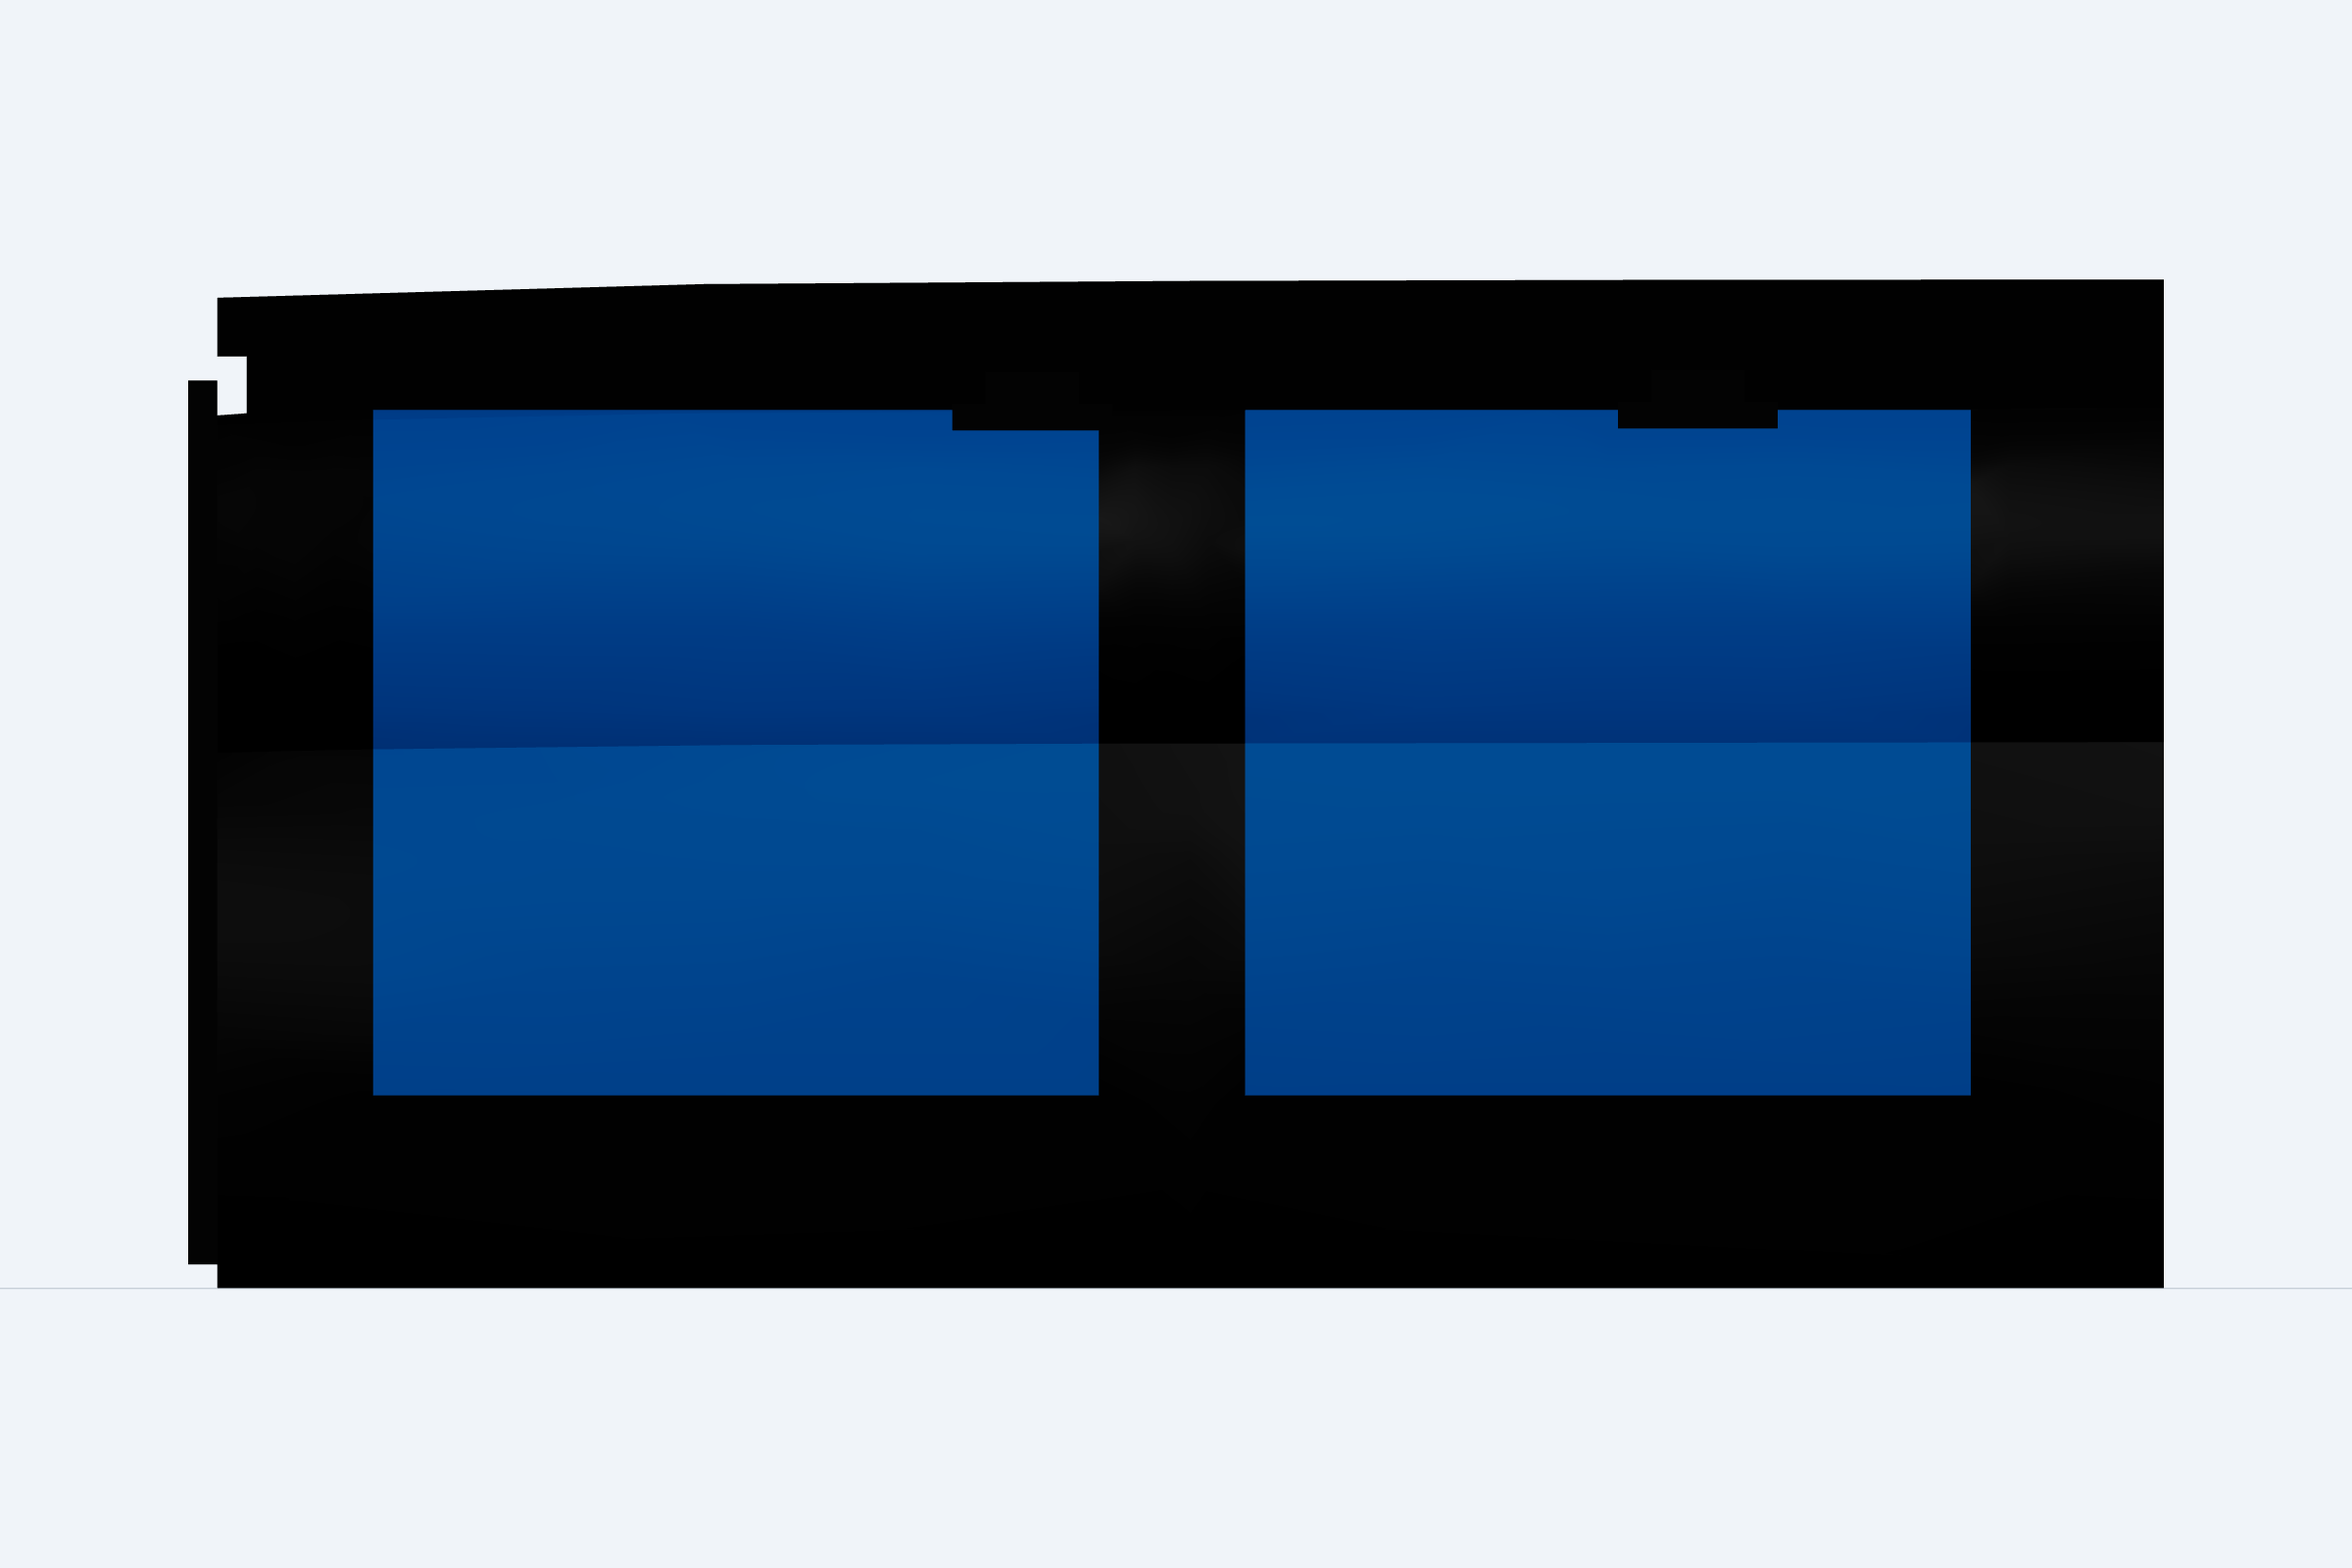
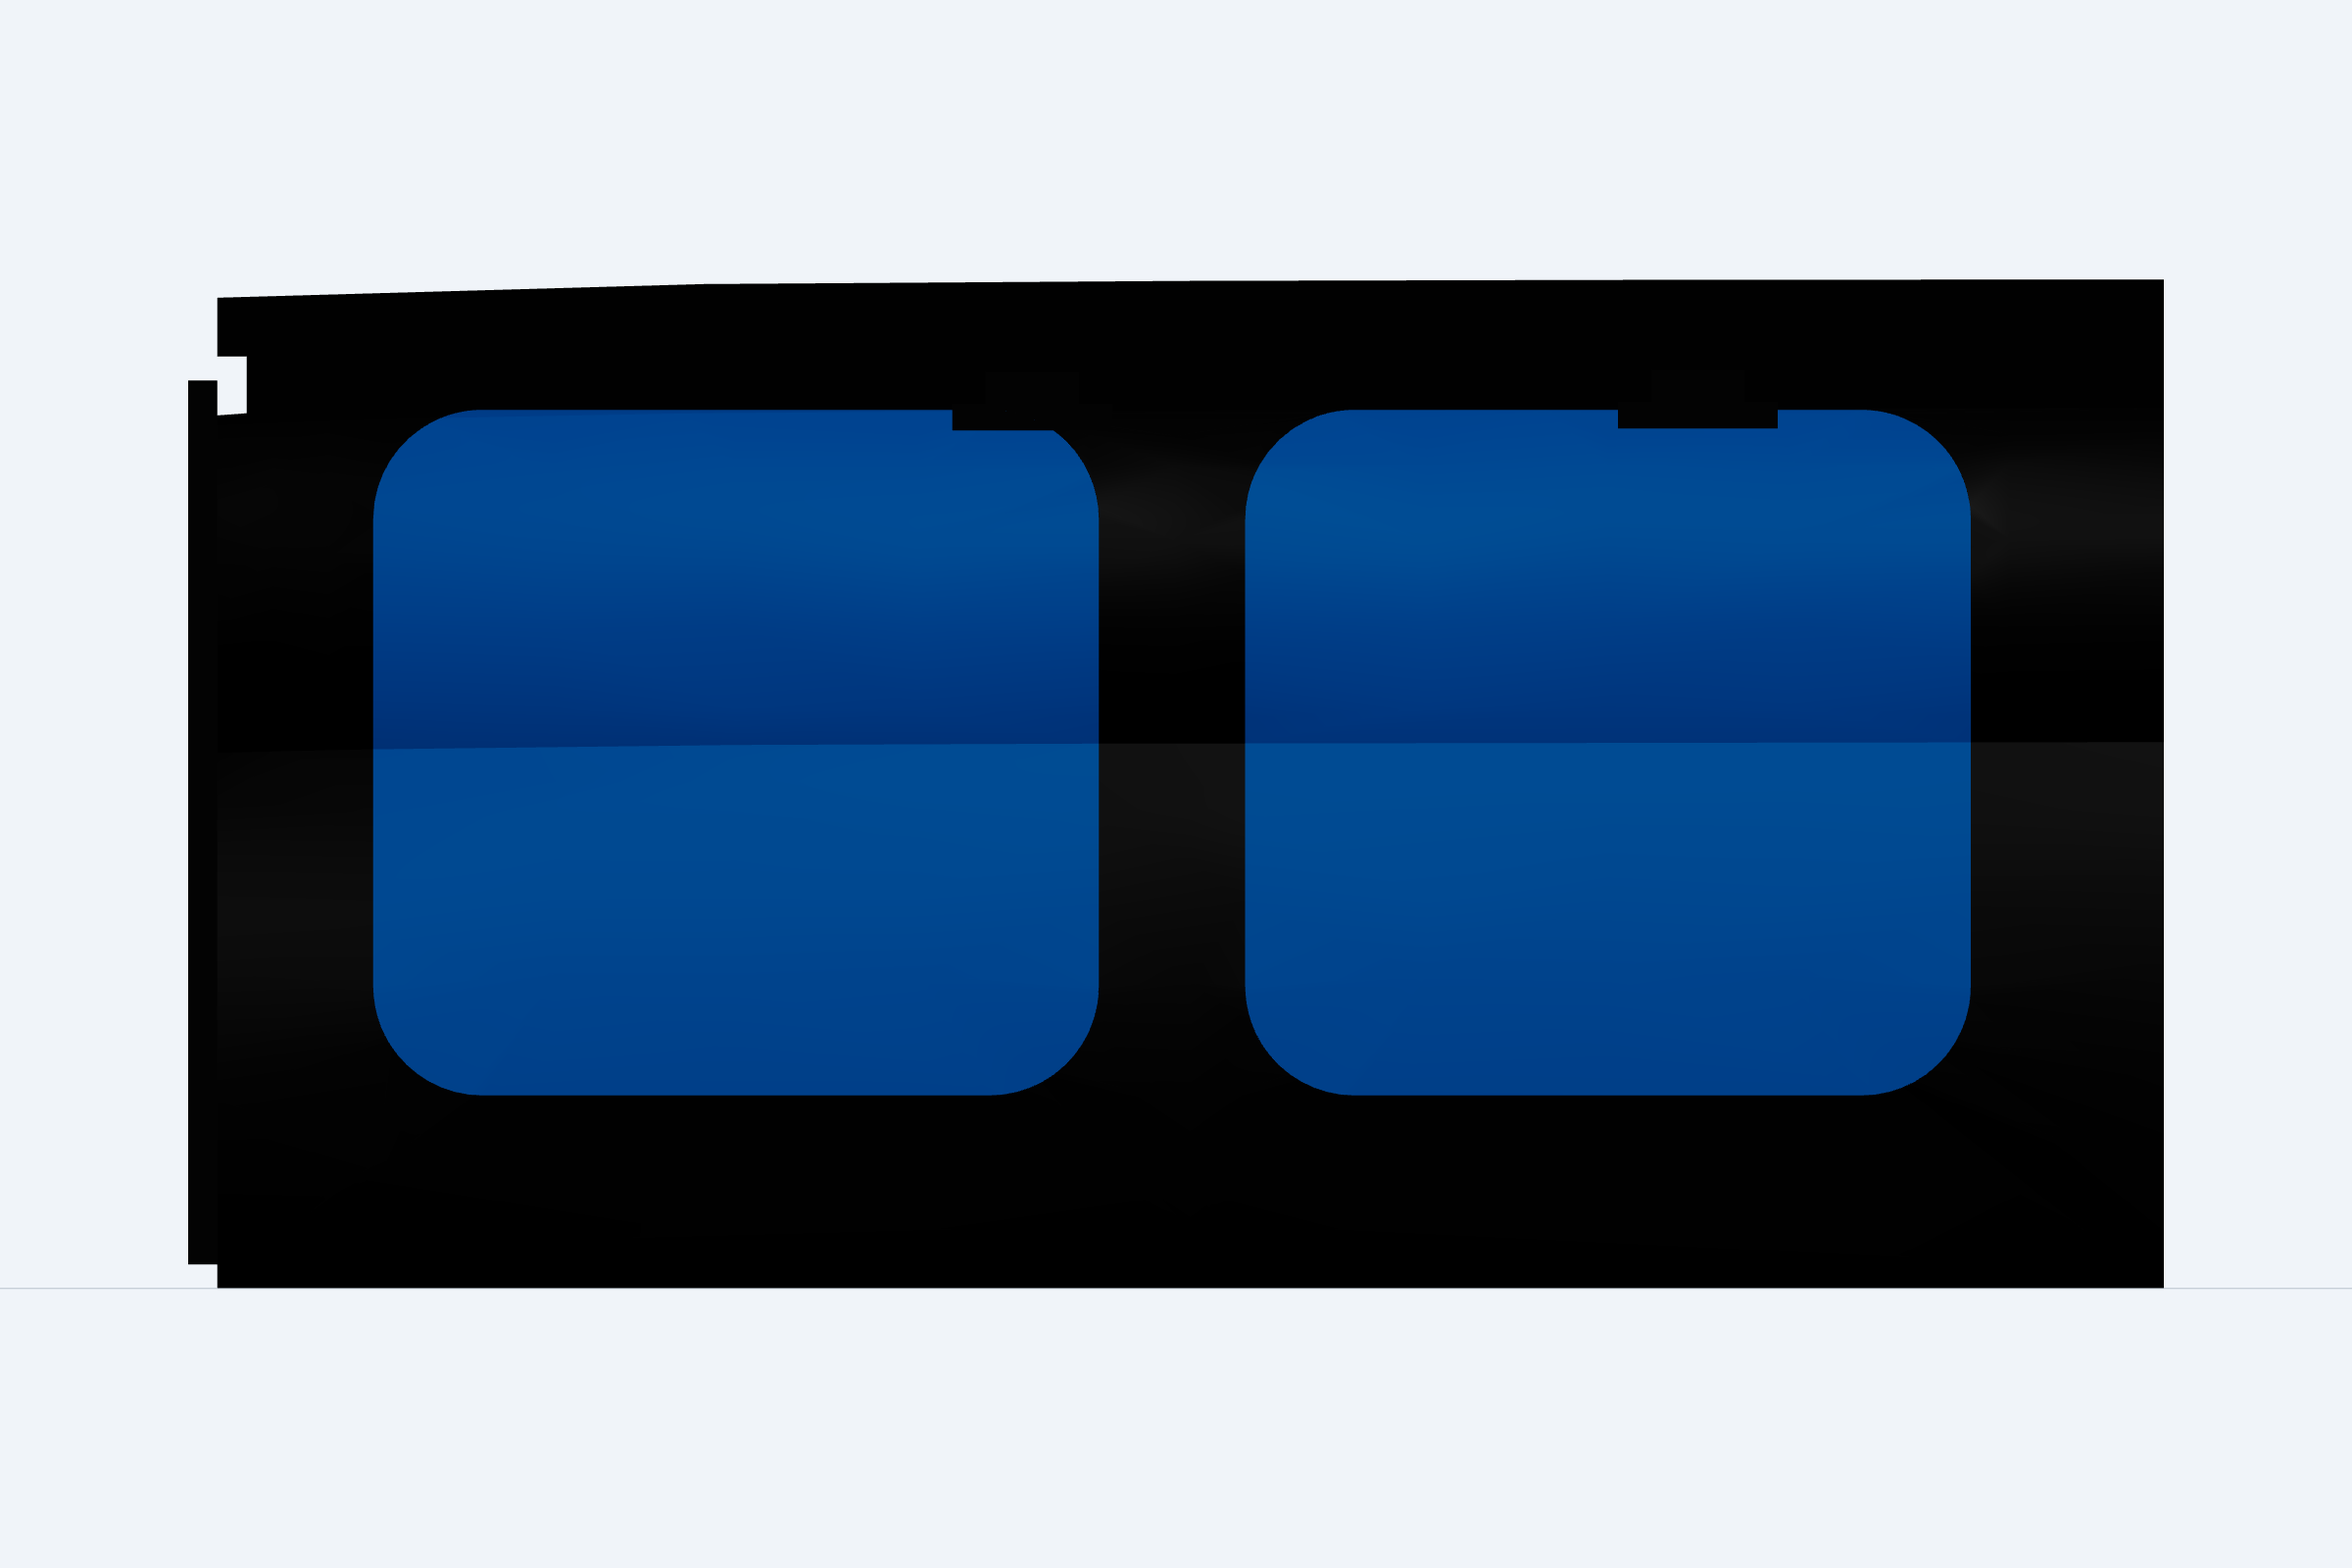
Fix Step 15 rounded glazing contract

diff --git a/models/r1t_topper/cad/step15_checks.py b/models/r1t_topper/cad/step15_checks.py
@@ -9,14 +9,8 @@ from build123d import Align, Box, Location
 from exports_step15 import VERIFIED_STEP11_COMMIT, VERIFIED_STEP11_STEP_OID
 from mount_interfaces import make_topper_crossbar_ports
 from parameters import rear_hatch_opening_width, topper_overall_length, value, wall_nominal_thickness
+import visual_review_step15 as visual
 from visual_review_step15 import (
-    REAR_WINDOW_Y_RANGES,
-    REAR_WINDOW_Z_RANGE,
-    SIDE_WINDOW_X_RANGES,
-    SIDE_WINDOW_Z_RANGE,
-    STRUCTURAL_CARBON_MINIMUM,
-    _rear_window_selector,
-    _side_window_selector,
     gen_step,
     make_continuous_carbon_shell,
     make_curved_side_glazing,
@@ -30,14 +24,14 @@ from visual_review_step15 import (
 def _expected_side_labels(side: str) -> set[str]:
     return {
         f"CURVED_SIDE_GLAZING_{side}_{index}_PRESENTATION_ONLY"
-        for index in range(1, len(SIDE_WINDOW_X_RANGES) + 1)
+        for index in range(1, len(visual.SIDE_WINDOW_X_RANGES) + 1)
     }
 
 
 def _expected_rear_labels() -> set[str]:
     return {
         f"REAR_HATCH_GLAZING_{index}_PRESENTATION_ONLY"
-        for index in range(1, len(REAR_WINDOW_Y_RANGES) + 1)
+        for index in range(1, len(visual.REAR_WINDOW_Y_RANGES) + 1)
     }
 
 
@@ -65,18 +59,27 @@ def _enforce(checks: dict[str, bool]) -> None:
     assert not failed, f"STEP15_CONTRACT_FAILED: {', '.join(failed)}"
 
 
-def _mutation_test(checks: dict[str, bool]) -> None:
+def _mutation_test() -> None:
+    """Prove source dimensions and rounded profiles, not cached check booleans."""
+    mutations = {
+        "side_mullion_120_mm": ("SIDE_WINDOW_X_RANGES", ((145.0, 690.0), (810.0, 1345.0))),
+        "rear_mullion_120_mm": ("REAR_WINDOW_Y_RANGES", ((-605.0, -60.0), (60.0, 605.0))),
+        "square_side_profiles": ("WINDOW_CORNER_RADIUS", 0.0),
+        "square_rear_profiles": ("REAR_WINDOW_CORNER_RADIUS", 0.0),
+    }
     survivors = []
-    for name in checks:
-        mutated = dict(checks)
-        mutated[name] = False
+    for name, (attribute, replacement) in mutations.items():
+        original = getattr(visual, attribute)
+        setattr(visual, attribute, replacement)
         try:
-            _enforce(mutated)
-        except AssertionError:
+            _enforce(_contract_checks())
+        except Exception:
             continue
+        finally:
+            setattr(visual, attribute, original)
         survivors.append(name)
     assert not survivors, f"STEP15_MUTATION_SURVIVORS: {', '.join(survivors)}"
-    print(f"STEP_15_MUTATION_TEST_PASS mutations={len(checks)} all_rejected=true")
+    print(f"STEP_15_MUTATION_TEST_PASS mutations={len(mutations)} all_rejected=true")
 
 
 def _contract_checks() -> dict[str, bool]:
@@ -106,15 +109,19 @@ def _contract_checks() -> dict[str, bool]:
         "no_freestanding_crossbar_reference": all("CROSSBAR_REFERENCE" not in label for label in root_labels),
         "one_positive_volume_shell": shell.volume > 0.0 and len(shell.solids()) == 1,
         "rounded_shell_spans_product_length": shell.bounding_box().size.X > 1400.0,
-        "two_side_ranges": len(SIDE_WINDOW_X_RANGES) == 2,
+        "two_side_ranges": len(visual.SIDE_WINDOW_X_RANGES) == 2,
         "driver_pane_set_equality": {pane.label for pane in side_panes if "_DRIVER_" in pane.label} == _expected_side_labels("DRIVER"),
         "passenger_pane_set_equality": {pane.label for pane in side_panes if "_PASSENGER_" in pane.label} == _expected_side_labels("PASSENGER"),
         "all_side_panes_positive_and_conformal": all(pane.volume > 0.0 and pane.bounding_box().size.Y > 20.0 for pane in side_panes),
-        "wide_side_lights": all((right - left) >= 500.0 for left, right in SIDE_WINDOW_X_RANGES),
-        "side_light_height": SIDE_WINDOW_Z_RANGE[1] - SIDE_WINDOW_Z_RANGE[0] >= 500.0,
+        "wide_side_lights": all((right - left) >= 500.0 for left, right in visual.SIDE_WINDOW_X_RANGES),
+        "side_light_height": visual.SIDE_WINDOW_Z_RANGE[1] - visual.SIDE_WINDOW_Z_RANGE[0] >= 500.0,
+        "rounded_side_window_profiles": visual.WINDOW_CORNER_RADIUS >= 60.0
+        and any(edge.geom_type.name != "LINE" for edge in visual._side_window_selector(*visual.SIDE_WINDOW_X_RANGES[0], 1.0).edges()),
         "two_rear_pane_set_equality": {pane.label for pane in rear_panes} == _expected_rear_labels(),
         "all_rear_panes_positive": all(pane.volume > 0.0 for pane in rear_panes),
-        "wide_rear_lights": all((right - left) >= 500.0 for left, right in REAR_WINDOW_Y_RANGES),
+        "wide_rear_lights": all((right - left) >= 500.0 for left, right in visual.REAR_WINDOW_Y_RANGES),
+        "rounded_rear_window_profiles": visual.REAR_WINDOW_CORNER_RADIUS >= 50.0
+        and any(edge.geom_type.name != "LINE" for edge in visual._rear_window_selector(*visual.REAR_WINDOW_Y_RANGES[0]).edges()),
         "single_closed_two_pane_hatch": hatch_leaf.label == "SINGLE_REAR_HATCH_LEAF_TWO_PANE_CONTINUOUS_CORNERS_PRESENTATION_ONLY" and len(hatch_leaf.solids()) == 1 and hatch_leaf.volume > 0.0,
         "rear_hatch_corners_continuous": all((hatch_leaf & _rear_corner_selector(side)).volume > 0.0 for side in (-1.0, 1.0)),
         "b_side_hatch_system_complete": {child.label for child in b_side.children} == {
@@ -132,17 +139,18 @@ def _contract_checks() -> dict[str, bool]:
     }
 
     for side, sign in (("DRIVER", 1.0), ("PASSENGER", -1.0)):
-        for left, right in zip(SIDE_WINDOW_X_RANGES, SIDE_WINDOW_X_RANGES[1:]):
+        for left, right in zip(visual.SIDE_WINDOW_X_RANGES, visual.SIDE_WINDOW_X_RANGES[1:]):
             gap = (left[1], right[0])
             checks[f"{side.lower()}_carbon_between_side_lights"] = (
-                gap[1] - gap[0] >= STRUCTURAL_CARBON_MINIMUM
-                and (shell & _side_window_selector(*gap, sign)).volume > 0.0
+                gap[1] - gap[0] == visual.STRUCTURAL_MULLION_WIDTH
+                and gap[1] - gap[0] >= visual.STRUCTURAL_CARBON_MINIMUM
+                and (shell & visual._side_window_selector(*gap, sign)).volume > 0.0
             )
-    for left, right in zip(REAR_WINDOW_Y_RANGES, REAR_WINDOW_Y_RANGES[1:]):
+    for left, right in zip(visual.REAR_WINDOW_Y_RANGES, visual.REAR_WINDOW_Y_RANGES[1:]):
         gap = (left[1], right[0])
         checks["carbon_between_rear_hatch_lights"] = (
-            gap[1] - gap[0] >= STRUCTURAL_CARBON_MINIMUM
-            and (hatch_leaf & _rear_window_selector(*gap, depth=80.0)).volume > 0.0
+            gap[1] - gap[0] == visual.REAR_MULLION_WIDTH
+            and (hatch_leaf & visual._rear_window_selector(*gap, depth=80.0)).volume > 0.0
         )
 
     review_dir = Path(__file__).resolve().parents[1] / "outputs/review/step15"
@@ -164,7 +172,7 @@ def _contract_checks() -> dict[str, bool]:
 def run() -> None:
     checks = _contract_checks()
     _enforce(checks)
-    _mutation_test(checks)
+    _mutation_test()
 
 
 if __name__ == "__main__":

diff --git a/models/r1t_topper/cad/visual_review_step15.py b/models/r1t_topper/cad/visual_review_step15.py
@@ -7,7 +7,7 @@ the rear with one real two-light hatch.  The presentation model is not a
 fitment, sealing, capacity, or fabrication-release claim.
 """
 
-from build123d import Align, Axis, Box, Color, Compound, Edge, Face, Location, Wire, loft
+from build123d import Align, Axis, Box, Color, Compound, Edge, Face, Location, Plane, RectangleRounded, Wire, extrude, loft
 from cadpy.assembly import AssemblyHelper
 
 from parameters import (
@@ -38,14 +38,18 @@ GLAZING_COLOR = Color(0.08, 0.38, 0.56, 0.92)
 HATCH_CARBON_COLOR = Color(0.14, 0.17, 0.20, 1.0)
 INTEGRATED_PORT_COLOR = Color(0.11, 0.13, 0.16, 1.0)
 
-# Source-intent geometry: two broad lights on each side and two lights in one
-# rear hatch.  The 110 mm carbon bridges exceed the 76 mm / 3 in minimum.
+# Source-intent geometry: two broad, rounded lights on each side and two
+# rounded lights in one rear hatch.  The side bridge exceeds the 76 mm / 3 in
+# minimum; the rear bridge is the specified 140 mm.
 SIDE_WINDOW_X_RANGES = ((145.0, 690.0), (800.0, 1345.0))
 SIDE_WINDOW_Z_RANGE = (145.0, 660.0)
-REAR_WINDOW_Y_RANGES = ((-605.0, -55.0), (55.0, 605.0))
+WINDOW_CORNER_RADIUS = 82.0
+REAR_WINDOW_Y_RANGES = ((-605.0, -70.0), (70.0, 605.0))
 REAR_WINDOW_Z_RANGE = (185.0, 605.0)
+REAR_WINDOW_CORNER_RADIUS = 64.0
 STRUCTURAL_CARBON_MINIMUM = 76.0
 STRUCTURAL_MULLION_WIDTH = 110.0
+REAR_MULLION_WIDTH = 140.0
 SIDE_CUT_DEPTH = 360.0
 
 
@@ -87,26 +91,32 @@ def _rounded_presentation_shell():
 
 def _side_window_selector(x_min: float, x_max: float, sign: float):
     side_y = value(topper_base_outer_width) / 2.0
-    return Box(
+    profile = Plane.XZ * RectangleRounded(
         x_max - x_min,
-        SIDE_CUT_DEPTH,
         SIDE_WINDOW_Z_RANGE[1] - SIDE_WINDOW_Z_RANGE[0],
-        align=(Align.MIN, Align.CENTER, Align.MIN),
-    ).moved(Location((x_min, sign * side_y, SIDE_WINDOW_Z_RANGE[0])))
+        min(
+            WINDOW_CORNER_RADIUS,
+            (x_max - x_min) / 2.0 - 1.0,
+            (SIDE_WINDOW_Z_RANGE[1] - SIDE_WINDOW_Z_RANGE[0]) / 2.0 - 1.0,
+        ),
+    )
+    return extrude(profile, amount=SIDE_CUT_DEPTH / 2.0, both=True).moved(
+        Location(((x_min + x_max) / 2.0, sign * side_y, sum(SIDE_WINDOW_Z_RANGE) / 2.0))
+    )
 
 
 def _rear_window_selector(y_min: float, y_max: float, depth: float = 2.0 * value(wall_nominal_thickness)):
-    return Box(
-        depth,
+    profile = Plane.YZ * RectangleRounded(
         y_max - y_min,
         REAR_WINDOW_Z_RANGE[1] - REAR_WINDOW_Z_RANGE[0],
-        align=(Align.MIN, Align.MIN, Align.MIN),
-    ).moved(
+        REAR_WINDOW_CORNER_RADIUS,
+    )
+    return extrude(profile, amount=depth / 2.0, both=True).moved(
         Location(
             (
                 value(topper_overall_length) - value(wall_nominal_thickness) / 2.0,
-                y_min,
-                REAR_WINDOW_Z_RANGE[0],
+                (y_min + y_max) / 2.0,
+                sum(REAR_WINDOW_Z_RANGE) / 2.0,
             )
         )
     )

diff --git a/models/r1t_topper/reports/STEP15_OPERATOR_VISUAL_REPORT.md b/models/r1t_topper/reports/STEP15_OPERATOR_VISUAL_REPORT.md
@@ -6,11 +6,11 @@ Step 11 geometry at commit `6e0229cecefee0043aed9ea607c5241c1fe7f815`.
 The visible exterior is a freshly re-embodied continuous rounded loft: its
 sidewalls, shoulder transitions, and crown use radiused curves rather than the
 old flat six-cartridge form. Each side has exactly two broad shell-conformal
-glazing lights. The 110 mm carbon bridge between those lights is positive
-remaining shell material and exceeds the 76 mm / three-inch minimum. The rear
-is one clean, closed, continuous-corner hatch leaf with exactly two broad panes
-and the same 110 mm center carbon bridge. No duplicated hatch leaf or
-top-center protrusion is included.
+glazing lights with actual radiused cut geometry. The 110 mm carbon bridge
+between those lights is positive remaining shell material and exceeds the 76 mm
+/ three-inch minimum. The rear is one clean, closed, continuous-corner hatch
+leaf with exactly two rounded broad panes and a 140 mm center carbon bridge.
+No duplicated hatch leaf or top-center protrusion is included.
 
 The B-side hatch derivative explicitly carries the closed and open panel,
 continuous frame, hinge/latch package, seal, gutter, and drainage package; it
@@ -34,5 +34,6 @@ Regenerate with:
 ```
 
 The checker derives side, rear, and port labels from the design ranges and
-compares their sets for equality. It also runs a 29-case one-at-a-time mutation
-test so every contracted assertion is load-bearing.
+compares their sets for equality. Its adversarial source mutations reject wrong
+side/rear bridge widths and replacement of either rounded opening profile with
+a square one.
